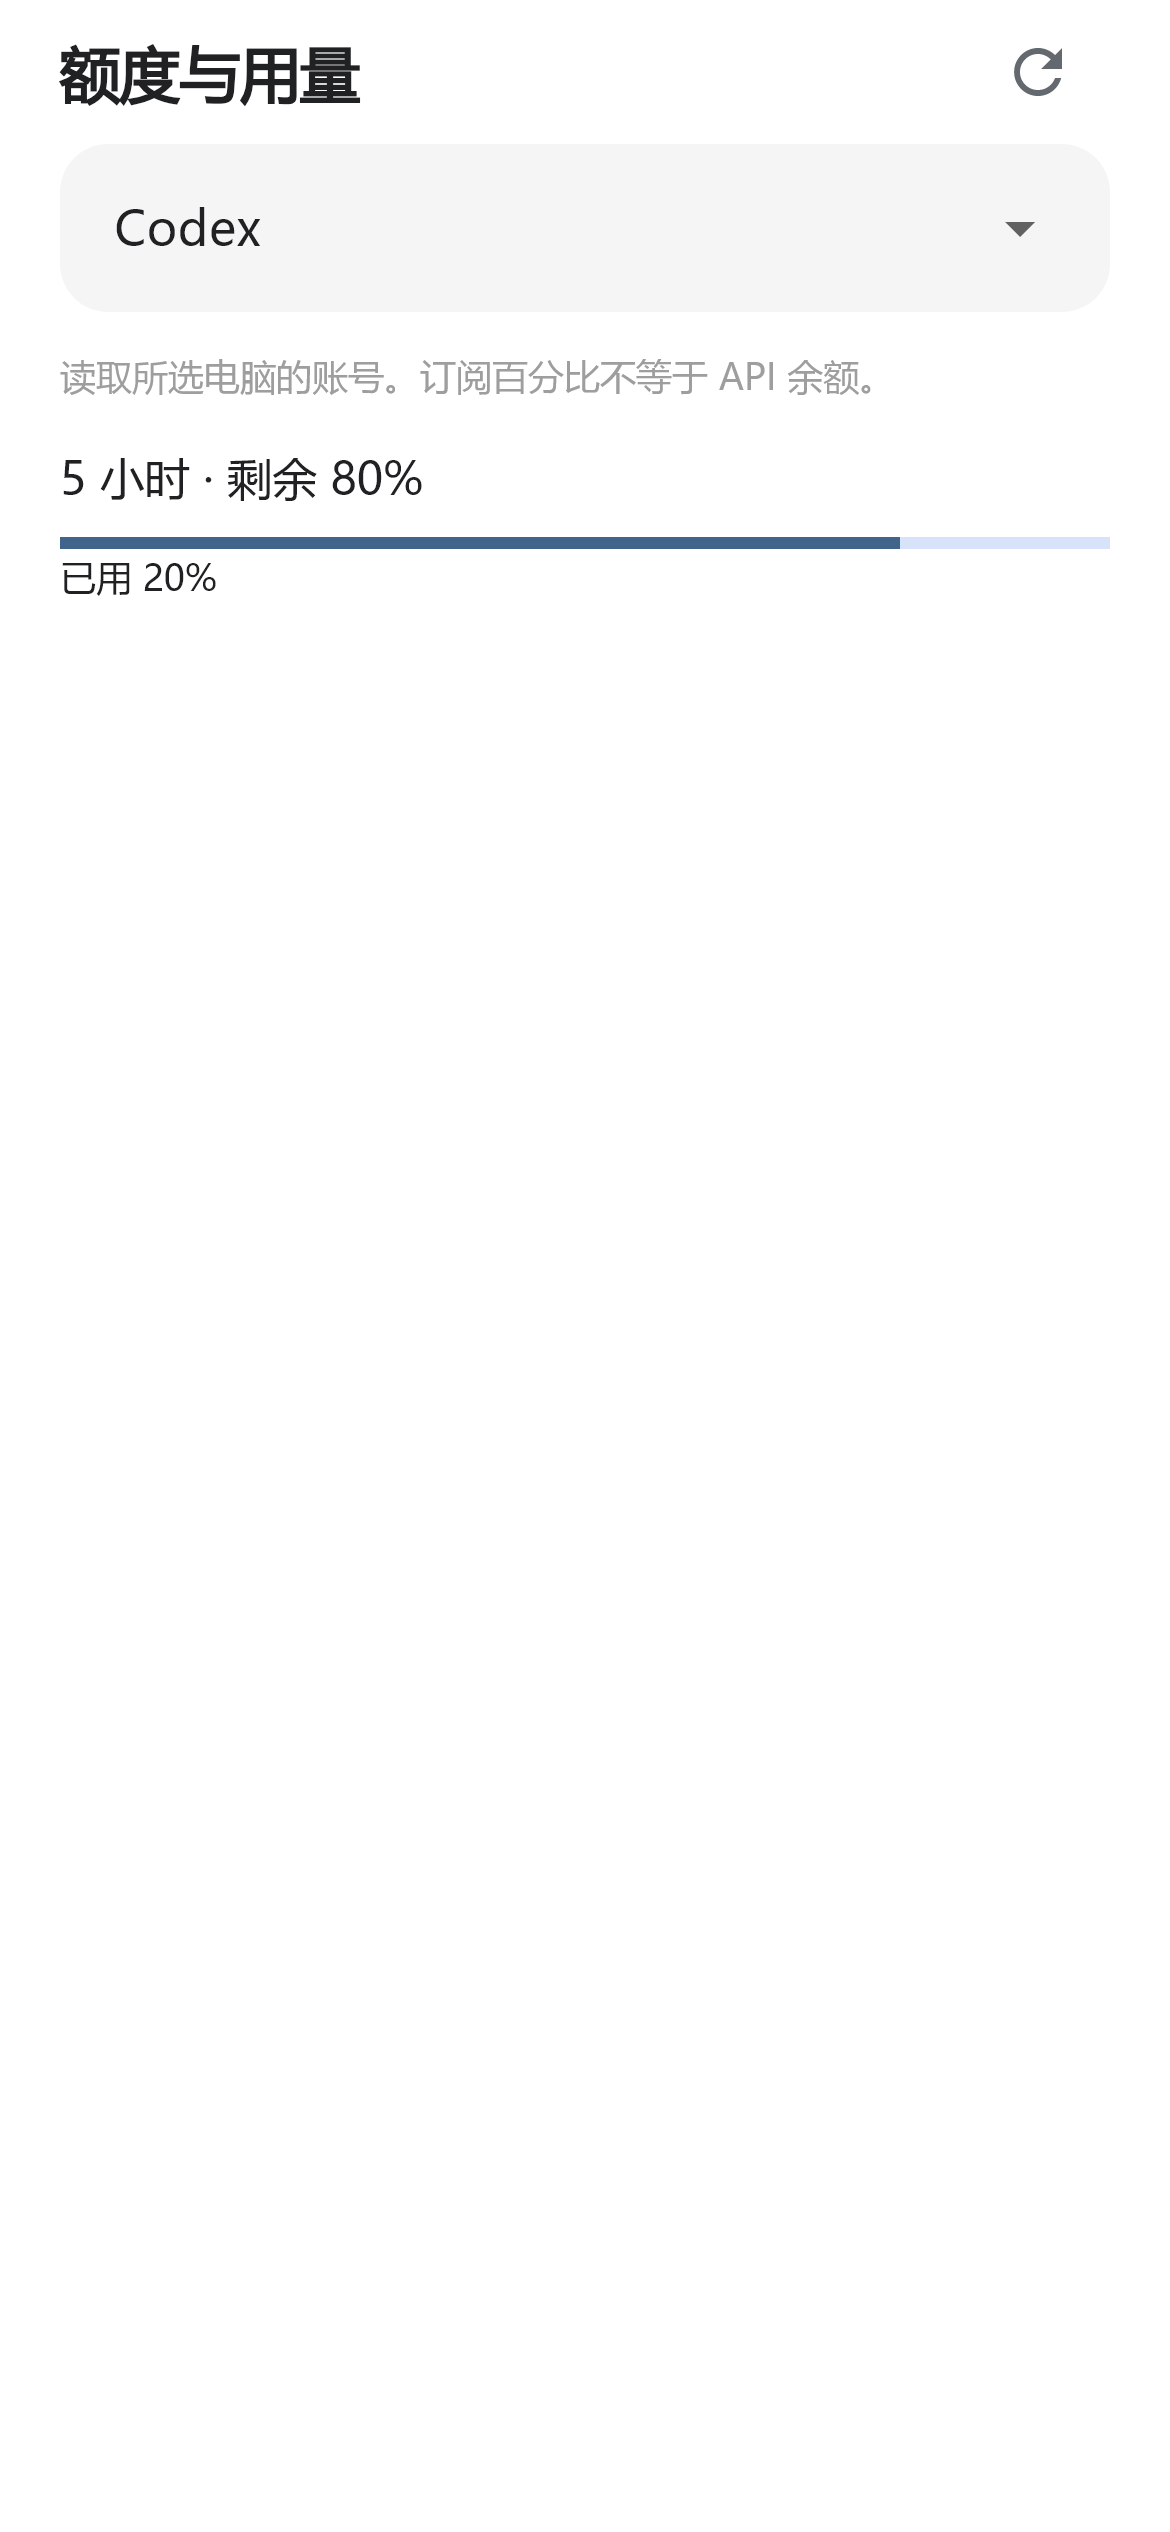
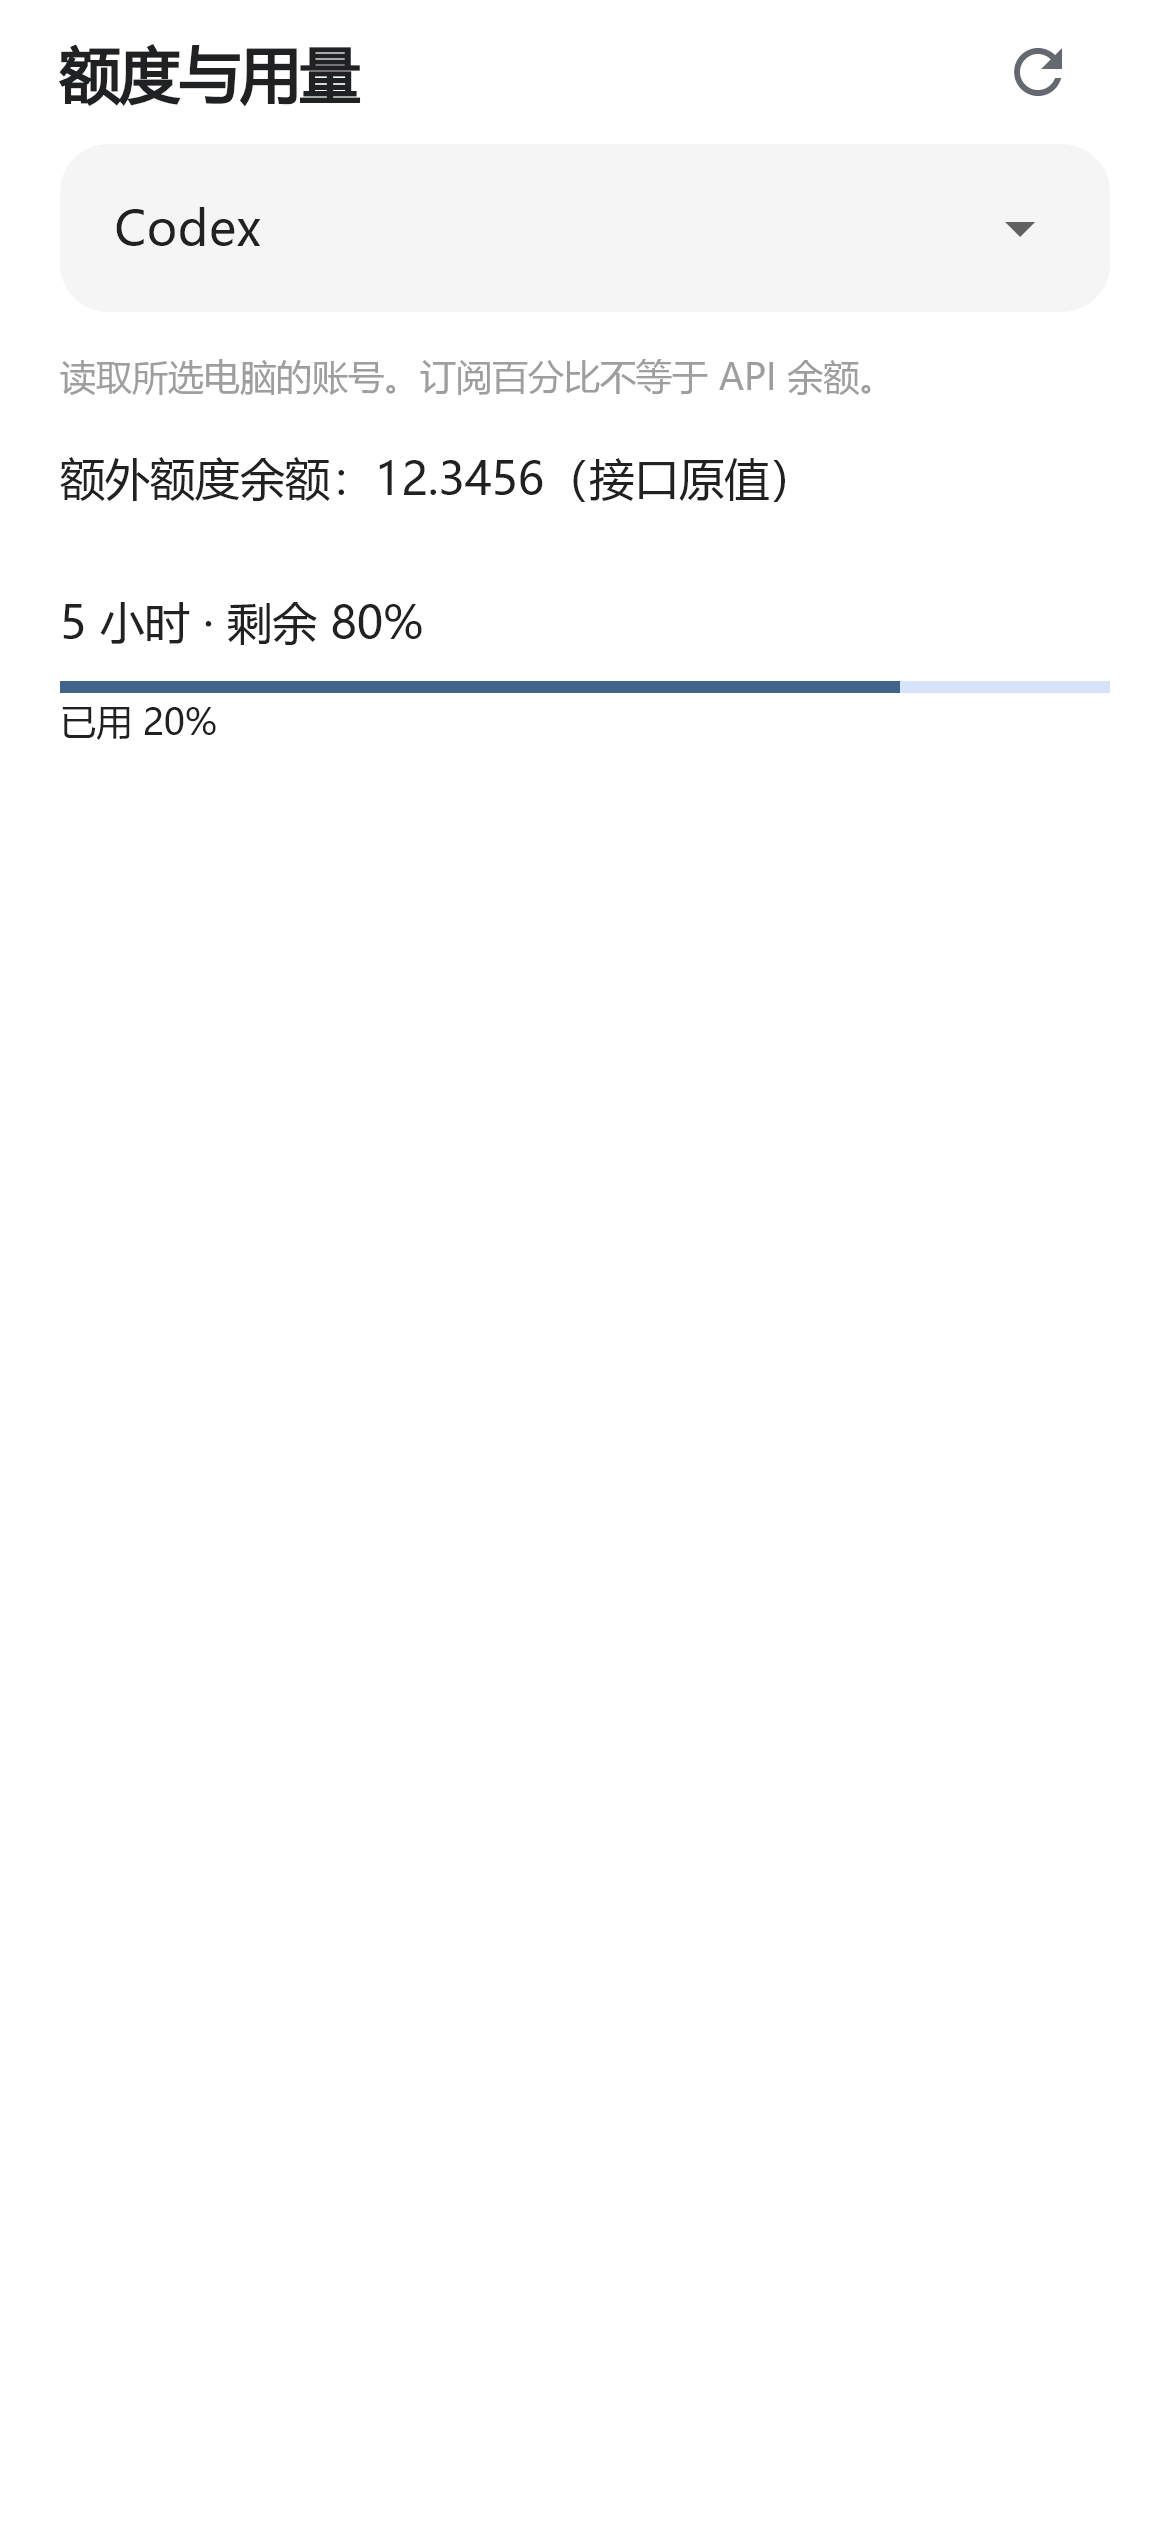
Document centralized Android updates and publish current release feeds

Changed region(s): [[0.0308, 0.156, 0.9538, 0.312]]

diff --git a/docs/UPDATES.md b/docs/UPDATES.md
@@ -54,7 +54,7 @@
 
 设置 → 检查更新 → 下载 → 系统确认安装。APK 使用原签名，可覆盖旧版，无需先卸载。若提示允许安装未知来源，请仅对正在使用的更新入口开启所需安装权限。
 
-更新清单与安装包来自当前连接电脑的更新入口；普通安装者不会自动接入开发者的小主机。电脑端未配置更新源时，可以从公开 Releases 手动下载安装包。
+Android 0.2.22 起，更新清单与安装包统一来自 Mydex 发布站，无需配对电脑或电脑在线，不发送电脑 Token。小主机停机或发布站不可达时暂时无法更新，已有电脑连接与会话功能不受更新站影响。旧手机仍使用原逻辑，需要先安装一次新版；无需先升级电脑才能升级手机。电脑端和各工具的新能力仍可能需要对应电脑软件升级。
 
 ## 电脑更新
 
@@ -125,3 +125,10 @@
 - 100% 以上使用原有间距；效果按应用与系统共同作用后的字号计算。
 
 26 项 Flutter 功能测试与静态检查通过。保留 60%、80%、100% 在手机和折叠屏上的 6 组截图，发送按钮高度验证至少 40。电脑端仍为 0.4.6，无需升级。
+
+
+### 统一更新与私测入口
+
+公开更新清单为 `https://app.leftseinem.dpdns.org/updates/android-stable.json`，只提供版本、包地址、大小和哈希，不需要登录，不接收配对令牌。安装前核对 APK 包名、签名和完整哈希；下载中断可续传。发布新版本时必须同步此清单和 gzip，不得只换首页下载链接。
+
+开发者的旧私测版本先通过已配对电脑获取一次 0.2.22 私测过渡包，首次启动会将已启用的试验入口保存在手机本地；后续统一包保留这项本机设置。普通安装默认不显示试验入口。此设置不跨手机或账号同步，也不授予任何后端账号或会话权限。

diff --git a/README.md b/README.md
@@ -10,7 +10,7 @@
 
 Mydex 连接你自己的电脑，让你在手机上查看项目和已有对话，跟进任务并与已适配的工具交互。模型账号、API 配置和任务执行留在电脑端。
 
-Windows 最新版 **0.4.25**：工具页明确显示连接桥方式和能力限制，支持一键还原程序备份或删除兼容副本，保留原账号和聊天记录。[桥接与恢复说明](docs/BRIDGES.md)。
+Windows 最新版 **0.4.26**：工具页明确显示连接桥方式和能力限制，支持一键还原程序备份或删除兼容副本，保留原账号和聊天记录。[桥接与恢复说明](docs/BRIDGES.md)。
 
 Mac 最新预览版 **0.5.2-preview.2** 内置 DeepSeek 连接维护和一键安装重启更新；iPhone 使用网页，首次刷新后启用自动版本检查提示。[Apple安装、扫码和功能范围](docs/APPLE.md)。
 
@@ -43,7 +43,7 @@ Mac 最新预览版 **0.5.2-preview.2** 内置 DeepSeek 连接维护和一键安
 ## 功能与使用说明
 
 - **新对话选项目**：输入框上方直接选择当前电脑的项目，从原会话新建时继承所属项目。
-- **额度与用量**：设置或模型与模式中查询 Codex、Claude Code 的订阅已用/剩余比例及重置时间，需 Windows 0.4.25；[使用范围](docs/PROJECTS-USAGE.md)。
+- **额度与用量**：设置或模型与模式中查询 Codex、Claude Code 的订阅已用/剩余比例及重置时间，需 Windows 0.4.26；[使用范围](docs/PROJECTS-USAGE.md)。
 
 - **多电脑**：每台电脑单独配对，手机集中选择；可删除不再使用的设备。
 - **多工具与原会话**：电脑端负责检测和接入 Coding 工具。是否能查看、继续发言或使用审批等功能，取决于工具、版本及适配状态。

diff --git a/docs/GETTING-STARTED.md b/docs/GETTING-STARTED.md
@@ -1,6 +1,6 @@
 # 安装与扫码配对
 
-适用 Android 0.2.21 / Windows 0.4.25 · 2026-11-03
+适用 Android 0.2.22 / Windows 0.4.26 · 2026-11-03
 
 [首页](../README.md) · [下载](https://app.leftseinem.dpdns.org/) · [功能图解](FEATURES.md)
 
@@ -64,7 +64,7 @@ DeepSeek Harness、Kimi Code、ZCode 和 Claude Desktop 的原会话曾在本机
 
 Codex 的已有侧聊可从顶部蓝色「侧边聊天」文字打开；子 Agent 活动可展开查看。[侧聊与子 Agent 说明](RELATED-CHATS.md)。新建侧聊仍需在电脑上进行。
 
-手机设置 → 检查更新 → 下载 → 按系统提示确认安装。更新入口来自当前连接的电脑；该电脑需提供新版安装包。电脑端从 Releases 下载新版安装包覆盖安装，保留原数据目录。
+手机设置 → 检查更新 → 下载 → 按系统提示确认安装。从 Mydex 统一更新站检查和下载，无需连接电脑。旧版需先覆盖安装一次 0.2.22 或以上，才会切换到新逻辑。电脑端从 Releases 下载新版安装包覆盖安装，保留原数据目录。
 
 ## 配对失败怎么办
 

diff --git a/docs/FEATURES.md b/docs/FEATURES.md
@@ -66,7 +66,7 @@ Windows 设置管理登录后自启、数据目录和联系开发者入口。托
 
 ## 10. 更新、缓存和连接数据
 
-手机设置可检查当前电脑提供的更新，下载安装包后由 Android 系统确认覆盖安装。不会静默替你安装。更换电脑端模型供应商通常不需要重装 APK。
+手机设置从 Mydex 统一更新站检查更新，无需当前电脑在线；下载安装包后由 Android 系统确认覆盖安装。不会静默替你安装。更换电脑端模型供应商通常不需要重装 APK。
 
 “清除本地会话缓存”保留电脑原会话；移除连接会清除相应本地配置。访问令牌使用安全存储。无 Google 登录、无第三方 AI SDK、无广告统计，模型运行和任务执行留在电脑。
 
